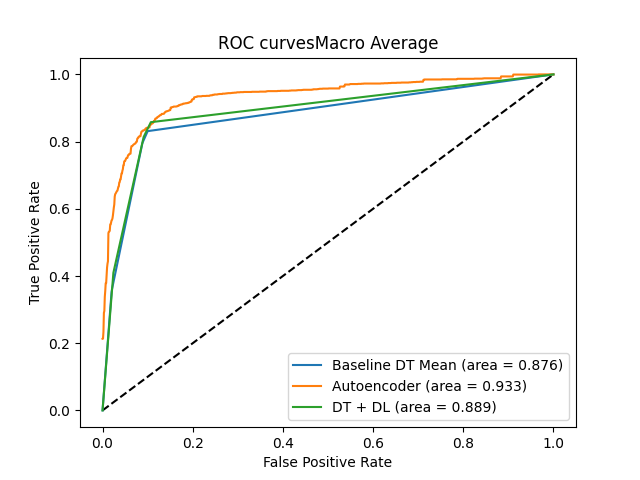
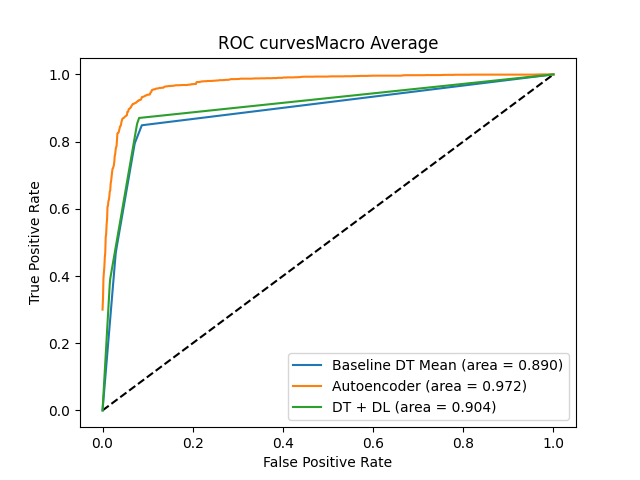
Por lo visto ahora funciona todo

diff --git a/src/main.py b/src/main.py
@@ -45,7 +45,10 @@ BATCHSIZE = 32
 DROPOUTVALUE = 0.2
 EPOCHS = 50
 
-# Layers que se utilizan para cbig_cross_sectional_features
+# Diccionario de Shallow Model
+SHALLOWMODELDICT = {
+  "randomforest": RandomForestClassifier()
+}
 
 """
     Pre: fileNamePath es un path valido a un archivo de texto
@@ -109,7 +112,8 @@ def train_autoencoder(x_train, y_train, learning_rate,
         autoencoder.obtain_history("fine_tuning")
 
     return autoencoder
-    
+
+
 """
     Pre: x_train contiene las variables de cada observacion, y_train contiene la clase a la que
          pertenece cada observacion.
@@ -173,8 +177,8 @@ def kFold_cross_validation_shallow(model, x_values, y_values, model_name):
         meansF1.append(metrics[3])
         
         print('Fold: %2d, Training/Test Split Distribution: %s - %s, Accuracy: %.3f' % (k+1, 
-                                                                                         np.shape(yTrain[train])[0],
-                                                                                         np.shape(yTrain[test])[0],
+                                                                                         np.shape(y_values[train])[0],
+                                                                                         np.shape(y_values[test])[0],
                                                                                          metrics[0]))
     
     print("Result obtained using " + model_name + " model:")
@@ -579,19 +583,15 @@ def evaluate_AE_with_shallow(x_train, x_eval, y_train, y_eval,
                              epochs, dropout_value,
                              size_layers_used, latent_space,
                              activation_func, verbose, number_classes):
-    f1_score = 0
-    while f1_score < 0.8:
 
-        autoencoder = train_autoencoder(x_train, y_train, 
-                                    learning_rate, batch_size, 
-                                    epochs, dropout_value, 
-                                    size_layers_used, latent_space, 
-                                    activation_func, verbose, 0, number_classes, True)
+    autoencoder = train_autoencoder(x_train, y_train, 
+                                learning_rate, batch_size, 
+                                epochs, dropout_value, 
+                                size_layers_used, latent_space, 
+                                activation_func, verbose, 0, number_classes, True)
 
-        print("AUTOENCODER MODEL METRICS ")
-        ae_metrics = get_metrics(autoencoder.predict_fine_tuning(x_eval, 0), y_eval)
-        f1_score = ae_metrics[3]
-        show_metrics(ae_metrics)
+    print("AUTOENCODER MODEL METRICS ")
+    show_metrics(get_metrics(autoencoder.predict_fine_tuning(x_eval, 0), y_eval))
 
 
     # Devolvemos los datos reducidos mediante el autoencoder
@@ -626,9 +626,11 @@ def main(argv):
     if argv[0] == "-GENERATE":
         ad_or_mci = 0
         using_DX = 0
+
         clinicPaths= ["../Data/TADPOLE_D1_D2.csv", "../Data/TADPOLE_D3.csv", "../Data/TADPOLE_D4_corr.csv"]
         features =  read_file("../features/others")
         feature_type_path = "../Feature_Type.csv"
+
         for i in range(1, len(argv)):
             if (argv[i] == "-C"):
                 features = features + read_file("../features/cognitive")
@@ -686,21 +688,33 @@ def main(argv):
         latent_space = 150
 
         number_classes = 3
+        optimization_used = 0 # 0 Grid Search 1 Bayesian Search
         execution_mode = 0
+        model_Kfold = "autoencoder"
 
         for i in range(1, len(argv)):
             if (argv[i] == "-sMCIpMCI"):
                 number_classes = 2
                 text = "sMCI/pMCI problem"
-            elif (argv[i] == "-KFDOL"):
+            elif (argv[i] == "-KFOLDAE"):
                 execution_mode = 1
+            elif(argv[i] == "-KFOLDSHALLOW"):
+                execution_mode = 1
+                model_Kfold = argv[i + 1]
             elif (argv[i] == "-COMPARE"):
                 execution_mode = 2
             elif (argv[i] == "-PAROPTI"):
                 execution_mode = 3
+            elif (argv[i] == "-BAYESIAN"):
+                optimization_used = 1
+                
         
+
         if execution_mode == 1:
-            hyper_parameters_autoencoder(xTrain, yTrain, layer_sizes, latent_space, "relu", "relu")
+            if(model_Kfold == "autoencoder"):
+                hyper_parameters_autoencoder(xTrain, yTrain, layer_sizes, latent_space, "relu", "relu")
+            else:
+                kFold_cross_validation_shallow(SHALLOWMODELDICT[model_Kfold], xTrain, yTrain, model_Kfold)
         elif execution_mode == 2:
             kFold_cross_validation_DLmodel(xTrain, yTrain,
                            LEARNINGRATE, BATCHSIZE, 
@@ -714,7 +728,10 @@ def main(argv):
                            layer_sizes,  latent_space, 
                            "relu", number_classes, False)
         elif execution_mode == 3:
-            hyper_parameters_optimization(xTrain)
+            if(optimization_used):
+                hyper_parameters_optimization(xTrain)
+            else:
+                hyper_parameters_autoencoder(xTrain, yTrain, layer_sizes, latent_space, "relu", "relu")
         else:
             evaluate_AE_with_shallow(xTrain, xEval, yTrain, yEval,
                            LEARNINGRATE, BATCHSIZE, 

diff --git a/src/aeClass.py b/src/aeClass.py
@@ -43,9 +43,13 @@ class Autoencoder:
         self._dropout_value = drop_out_value
         self._activation_func = activation_func
 
-        # Capas del encoder
+        # Encoder y Decoder
         self._encoder = None
         self._decoder = None
+
+        # Entrada y salida para crear los modelos
+        self._model_input = None
+        self._encoder_output = None
 
         # Modelos del Autoencoder
         self._model = None
@@ -55,9 +59,6 @@ class Autoencoder:
         self._autoencoder_train = None
         self._autoencoder_fine_tuned_train = None
 
-        # Entrada y salida para crear los modelos
-        self._model_input = None
-        self._encoder_output = None
 
         # Funcion build para crear el Autoencoder
         self._build()
@@ -70,7 +71,6 @@ class Autoencoder:
         self._build_encoder()
         self._build_decoder()
         self._build_autoencoder()
-
 
     """
         Pre: ---
@@ -130,10 +130,12 @@ class Autoencoder:
         Post: Devolvemos la salida del Encoder
     """
     def _add_encoder_output(self,x):
+        
+        input_encoder = (self._layer_sizes[-1],) if len(self._layer_sizes) != 0 else (self._input_shape,)
 
         x = Dense(self._latent_space,
                       activation = self._activation_func, 
-                      input_shape = (self._layer_sizes[-1],),
+                      input_shape = input_encoder,
                       kernel_initializer = initializers.he_normal,
                       kernel_regularizer = tensorflow.keras.regularizers.L2(0.01),
                       use_bias = True)(x)
@@ -152,7 +154,7 @@ class Autoencoder:
         
 
         x = DenseTied(self._input_shape, 
-                      activation = "linear",
+                      activation = "sigmoid",
                       use_bias = True,
                       tied_to = self._encoder.layers[1])(x)
 
@@ -356,8 +358,8 @@ class Autoencoder:
         Post: Devolvemos la prediccion de los datos de x_Data
     """
     def predict_reduced(self, data):
-        self._model = Model(inputs=self._model.input, outputs=self._model.get_layer("encoder").output)
-        return self._model.predict(data)
+
+        return self._encoder.predict(data)
 
     """
         Pre: x_Data es un conjunto de datos
@@ -394,6 +396,9 @@ class Autoencoder:
 
         return new_model.predict(x_Data)
     
+    def get_encoder_weights(self, layer_index):
+        return self._encoder.layers[1 +  3 * layer_index].get_weights()
+
     def obtain_history(self, autoencoder_type):
         model_trained = self._autoencoder_train
         metrics_name = self._model.metrics_names

diff --git a/src/loadMedicData.py b/src/loadMedicData.py
@@ -48,7 +48,7 @@ class Datasets:
     def normalizedValues(self, value, maxValue, minValue):
         result = np.nan
         if not pd.isna(value):
-            result = '{0:.3f}'.format(1 + ((value - minValue) / (maxValue - minValue)))
+            result = '{0:.3f}'.format((value - minValue) / (maxValue - minValue))
         return result
 
     """
@@ -137,8 +137,8 @@ class Datasets:
             D1D2Path = Path(medicalPaths[0])
             D1D2df = pd.read_csv(D1D2Path, sep = ",", decimal=".", float_precision='high')              # [12741 rows x 1907 columns]
 
-            D3Path = Path(medicalPaths[1])
-            D3df = pd.read_csv(D3Path, sep = ",", decimal=".", float_precision='high')
+            #D3Path = Path(medicalPaths[1])
+            #D3df = pd.read_csv(D3Path, sep = ",", decimal=".", float_precision='high')
                     
             D4Path = Path(medicalPaths[2])
             D4df = pd.read_csv(D4Path, sep = ",", decimal=".", float_precision='high')
@@ -150,7 +150,6 @@ class Datasets:
         
             # Fill DXCHANGE nans by older values
             D1D2df = self.fill_diagnans_by_older_values( D1D2df )
-            # D1D2df = self.fill_nans_by_older_values(D1D2df)
             # Borrando indices que el valor DXCHANGE es NAN  
             print( "Delete dataframe's index with DXCHANGE NaN...")
             idx = D1D2df[np.isnan(D1D2df.DXCHANGE)].index
@@ -308,9 +307,7 @@ class Datasets:
                         columnData = columnData.fillna(value='None')
                         # Realizamos el proceso de one hot encoding
                         oneHot = pd.get_dummies(columnData, columnName, drop_first=True, dtype=int)
-                        # Pasamos de binario a decimal entre 1 y 2
-                        oneHot = oneHot.replace(1,2)
-                        oneHot = oneHot.replace(0,1)
+
                         if(df[columnName].isnull().values.any()):
                             oneHot = oneHot.drop([columnName + "_None"], axis = 1)
 
@@ -345,7 +342,7 @@ class Datasets:
 
         imputer = KNNImputer(n_neighbors=10)
 
-        result = pd.concat([df[["Diagnosis"]].reset_index(), dfCat.reset_index(), dfQuant.reset_index()], axis=1).drop("index", axis=1) #tex
+        result = pd.concat([df[["Diagnosis"]].reset_index(), dfCat.reset_index(), dfQuant.reset_index()], axis=1).drop("index", axis=1)
 
         result = pd.DataFrame(imputer.fit_transform(result),columns = result.columns)
 
